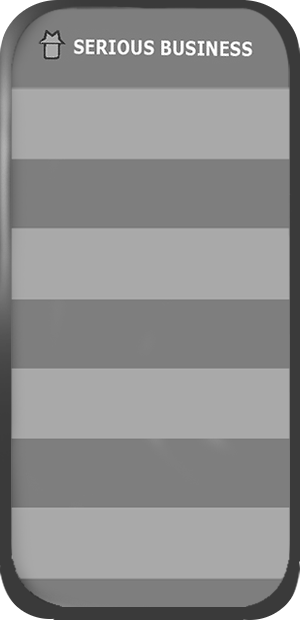
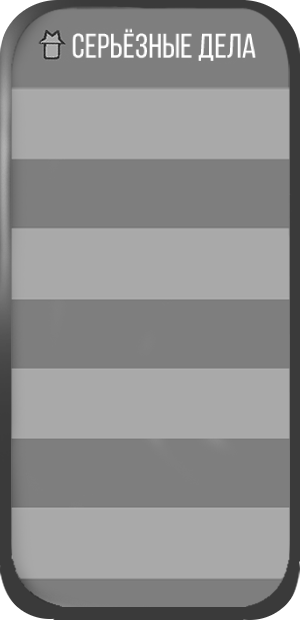
Перевод тем

Changed region(s): [[0.24, 0.0306, 0.87, 0.1226]]

diff --git a/README.md b/README.md
@@ -167,7 +167,7 @@ Dpeta крайне рекомендует прочитать эти руково
 - [ ] Проверка
 * dad:
 - [X] Текст
-- [ ] Визуал
+- [X] Визуал
 - [ ] Проверка
 * danceofthorns:
 - [X] Текст
